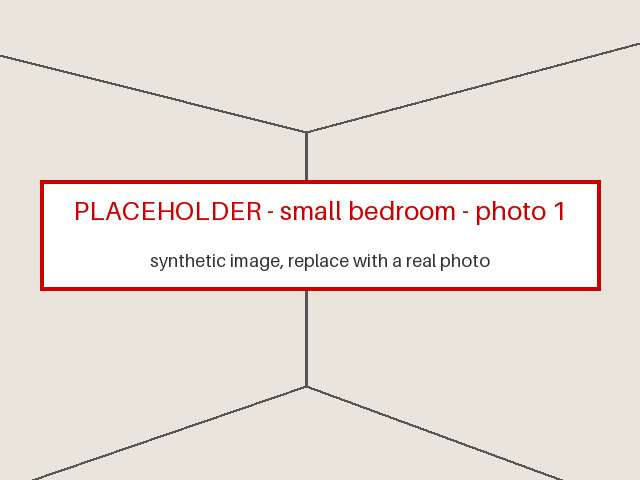
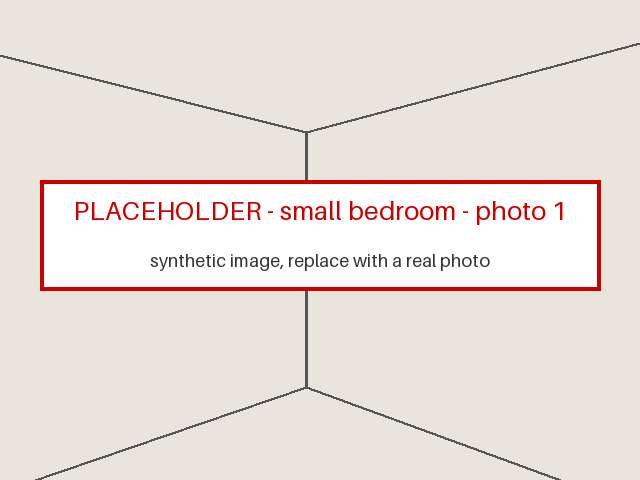
fix(F-10): limit the posed fixture photo to small-bedroom and decode it with sharp
Only small-bedroom/photo-1.jpg (the case the mock camera match answers for)
changes now; home-office and living-room photo-1 are back to main. The
generator draws hardcoded segments copied from wireframe.ts instead of a
second projection implementation, and wireframe.test.ts checks they still
line up. jpeg-js is replaced by sharp, which next already installs (no new
package in the lockfile).

diff --git a/frontend/src/components/scene3d/camera-match/wireframe.test.ts b/frontend/src/components/scene3d/camera-match/wireframe.test.ts
@@ -1,7 +1,7 @@
 import { readFileSync } from "node:fs";
 import { join } from "node:path";
-import { decode } from "jpeg-js";
-import { describe, expect, it } from "vitest";
+import sharp from "sharp";
+import { expect, it } from "vitest";
 import type { CameraPose, RoomSpec } from "../core/geometry";
 import { wireframe } from "./wireframe";
 
@@ -9,13 +9,16 @@ const fixtures = join(import.meta.dirname, "../../../../../fixtures");
 const read = (name: string, file: string) => JSON.parse(readFileSync(join(fixtures, name, file), "utf8"));
 const LABEL = [36, 176, 604, 294]; // the PLACEHOLDER box drawn over the photo (fixtures/placeholder_photos.py)
 
-describe.each(["small-bedroom", "home-office", "living-room"])("%s", (name) => {
-  const pose: CameraPose = read(name, "camera_pose.json");
-  const room: RoomSpec = read(name, "room_spec.json");
-  const photo = decode(readFileSync(join(fixtures, "..", pose.photo_key as string)));
+// the case the mock camera match answers for (lib/mocks/stub-api.ts)
+it("draws the room's edges where the fixture photo shows them", async () => {
+  const pose: CameraPose = read("small-bedroom", "camera_pose.json");
+  const room: RoomSpec = read("small-bedroom", "room_spec.json");
+  const { data, info: photo } = await sharp(join(fixtures, "..", pose.photo_key as string))
+    .raw()
+    .toBuffer({ resolveWithObject: true });
   const pixel = (x: number, y: number) => {
-    const i = 4 * (y * photo.width + x);
-    return photo.data[i] + photo.data[i + 1] + photo.data[i + 2];
+    const i = photo.channels * (y * photo.width + x);
+    return data[i] + data[i + 1] + data[i + 2];
   };
   // whether the photo has a dark (edge) pixel within 1 px of there; undefined off the photo and under its label
   const dark = (x: number, y: number) => {
@@ -30,15 +33,13 @@ describe.each(["small-bedroom", "home-office", "living-room"])("%s", (name) => {
       return Array.from({ length: steps + 1 }, (_, k) => dark(x0 + ((x1 - x0) * k) / steps + dx, y0 + ((y1 - y0) * k) / steps + dy));
     });
 
-  it("draws the room's edges where the fixture photo shows them", () => {
-    expect(photo.width).toBe(pose.image_width);
-    const seen = along(0, 0).filter((d) => d !== undefined);
-    expect(seen.length).toBeGreaterThan(100);
-    expect(seen.filter(Boolean).length / seen.length).toBeGreaterThan(0.98);
-    // a few pixels off, it misses them
-    const off = along(6, 6).filter((d) => d !== undefined);
-    expect(off.filter(Boolean).length / off.length).toBeLessThan(0.2);
-  });
+  expect(photo.width).toBe(pose.image_width);
+  const seen = along(0, 0).filter((d) => d !== undefined);
+  expect(seen.length).toBeGreaterThan(100);
+  expect(seen.filter(Boolean).length / seen.length).toBeGreaterThan(0.98);
+  // a few pixels off, it misses them
+  const off = along(6, 6).filter((d) => d !== undefined);
+  expect(off.filter(Boolean).length / off.length).toBeLessThan(0.2);
 });
 
 it("cuts an edge where it passes behind the camera", () => {

diff --git a/fixtures/placeholder_photos.py b/fixtures/placeholder_photos.py
@@ -1,62 +1,39 @@
-"""Regenerate the synthetic placeholder photos: `uv run --no-project --with pillow fixtures/placeholder_photos.py`.
+"""Regenerate the synthetic placeholder photos: `uv run --no-project --with pillow fixtures/placeholder_photos.py`."""
 
-photo-1 is the room's edges as its `camera_pose.json` sees them, so the camera matching UI can be checked against it.
-"""
-
-import json
-import math
 from pathlib import Path
 
 from PIL import Image, ImageDraw, ImageFont
 
 PHOTOS = {"small-bedroom": 2, "home-office": 1, "living-room": 2}
-NEAR = 0.05  # m: the part of an edge closer to the camera's plane than this is cut off
-
-
-def rotate(q: list[float], v: list[float]) -> list[float]:
-    """v turned by the unit quaternion q (x, y, z, w)."""
-    x, y, z, w = q
-    tx, ty, tz = 2 * (y * v[2] - z * v[1]), 2 * (z * v[0] - x * v[2]), 2 * (x * v[1] - y * v[0])
-    return [v[0] + w * tx + y * tz - z * ty, v[1] + w * ty + z * tx - x * tz, v[2] + w * tz + x * ty - y * tx]
-
-
-def room_edges(case: Path) -> list[tuple[tuple[float, float], tuple[float, float]]]:
-    """The room's 12 edges in pixels, as the case's camera (three.js convention, room (x, y, z) is (x, z, -y)) sees them."""
-    pose, d = json.loads((case / "camera_pose.json").read_text()), json.loads((case / "room_spec.json").read_text())["dimensions"]
-    q = [-pose["quaternion"][0], -pose["quaternion"][1], -pose["quaternion"][2], pose["quaternion"][3]]
-    f = pose["image_height"] / 2 / math.tan(math.radians(pose["fov"]) / 2)
-    floor = [(0, 0), (d["width"], 0), (d["width"], d["length"]), (0, d["length"])]
-
-    def local(i: int, z: float) -> list[float]:  # in the camera's frame, which looks down -z
-        x, y = floor[i % 4]
-        return rotate(q, [x - pose["position"][0], z - pose["position"][1], -y - pose["position"][2]])
-
-    def pixel(p: list[float]) -> tuple[float, float]:
-        return pose["image_width"] / 2 + f * p[0] / -p[2], pose["image_height"] / 2 - f * p[1] / -p[2]
-
-    def cut(p: list[float], q: list[float]) -> list[float]:  # p moved along the edge to the near plane, if behind it
-        t = (p[2] + NEAR) / (p[2] - q[2]) if p[2] > -NEAR else 0
-        return [a + t * (b - a) for a, b in zip(p, q, strict=True)]
-
-    edges = [
-        e
-        for i in range(4)
-        for e in ((local(i, 0), local(i + 1, 0)), (local(i, d["height"]), local(i + 1, d["height"])), (local(i, 0), local(i, d["height"])))
+# small-bedroom/photo-1: the room's edges as its camera_pose.json sees them, in pixels, copied from the camera matching UI's
+# wireframe (frontend/src/components/scene3d/camera-match/wireframe.ts), whose test checks the two still line up
+POSED = {
+    ("small-bedroom", 1): [
+        ((4262.7, 12710.8), (831.6, 579.1)),
+        ((4262.7, -8905.2), (831.6, -8.7)),
+        ((831.6, 579.1), (306.1, 387)),
+        ((831.6, -8.7), (306.1, 132.2)),
+        ((831.6, 579.1), (831.6, -8.7)),
+        ((306.1, 387), (-184.8, 555)),
+        ((306.1, 132.2), (-184.8, 9)),
+        ((306.1, 387), (306.1, 132.2)),
+        ((-184.8, 555), (-3623.2, 12710.8)),
+        ((-184.8, 9), (-3623.2, -8905.2)),
+        ((-184.8, 555), (-184.8, 9)),
     ]
-    return [(pixel(cut(a, b)), pixel(cut(b, a))) for a, b in edges if min(a[2], b[2]) <= -NEAR]
+}
 
 
 def photo(path: Path, title: str, n: int) -> None:
     img = Image.new("RGB", (640, 480), "#e9e4dc")
     d = ImageDraw.Draw(img)
-    if n == 1:
-        for a, b in room_edges(path.parent):
-            d.line([a, b], fill="#555", width=3)
-    else:
+    edges = POSED.get((path.parent.name, n))
+    if edges is None:
         d.polygon([(0, 480), (160, 330), (480, 330), (640, 480)], fill="#c8b49a")  # floor
         d.rectangle([160, 90, 480, 330], outline="#555", width=3)  # back wall
-        for a, b in [((0, 0), (160, 90)), ((640, 0), (480, 90)), ((0, 480), (160, 330)), ((640, 480), (480, 330))]:
-            d.line([a, b], fill="#555", width=3)
+        edges = [((0, 0), (160, 90)), ((640, 0), (480, 90)), ((0, 480), (160, 330)), ((640, 480), (480, 330))]
+    for a, b in edges:
+        d.line([a, b], fill="#555", width=3)
     d.rectangle([40, 180, 600, 290], fill="#ffffffdd", outline="#c00", width=4)
     d.text((320, 210), f"PLACEHOLDER - {title} - photo {n}", fill="#c00", font=ImageFont.load_default(size=26), anchor="mm")
     d.text((320, 260), "synthetic image, replace with a real photo", fill="#333", font=ImageFont.load_default(size=18), anchor="mm")

diff --git a/fixtures/README.md b/fixtures/README.md
@@ -27,4 +27,4 @@ Sample data for frontend mocks, backend unit tests, the stub graph and the eval 
 
 ## Photos are placeholders
 
-There are no real room photos yet. Each `photo-*.jpg` is a 640 x 480 synthetic image (an empty room drawn with Pillow and labeled PLACEHOLDER), so detection, depth and camera matching produce nothing meaningful on them. `photo-1.jpg` draws the room's edges as `camera_pose.json` sees them, so the camera matching UI can check its wireframe against it; it shows fewer than the 4 corners the solver needs. `placeholder_photos.py` regenerates them (`uv run --no-project --with pillow fixtures/placeholder_photos.py`); the JSON files are hand-maintained and are the source of truth. Replace the photos with real photos of matching rooms (same file names, max ~300 KB each), then update `room_spec.json` and `camera_pose.json` (`image_width`, `image_height`, the pose) to match.
+There are no real room photos yet. Each `photo-*.jpg` is a 640 x 480 synthetic image (an empty room drawn with Pillow and labeled PLACEHOLDER), so detection, depth and camera matching produce nothing meaningful on them. `small-bedroom/photo-1.jpg` (the one the frontend's mock camera match answers for) draws the room's edges as its `camera_pose.json` sees them, so the camera matching UI can check its wireframe against it; it shows fewer than the 4 corners the solver needs. `placeholder_photos.py` regenerates them (`uv run --no-project --with pillow fixtures/placeholder_photos.py`); the JSON files are hand-maintained and are the source of truth. Replace the photos with real photos of matching rooms (same file names, max ~300 KB each), then update `room_spec.json` and `camera_pose.json` (`image_width`, `image_height`, the pose) to match.
